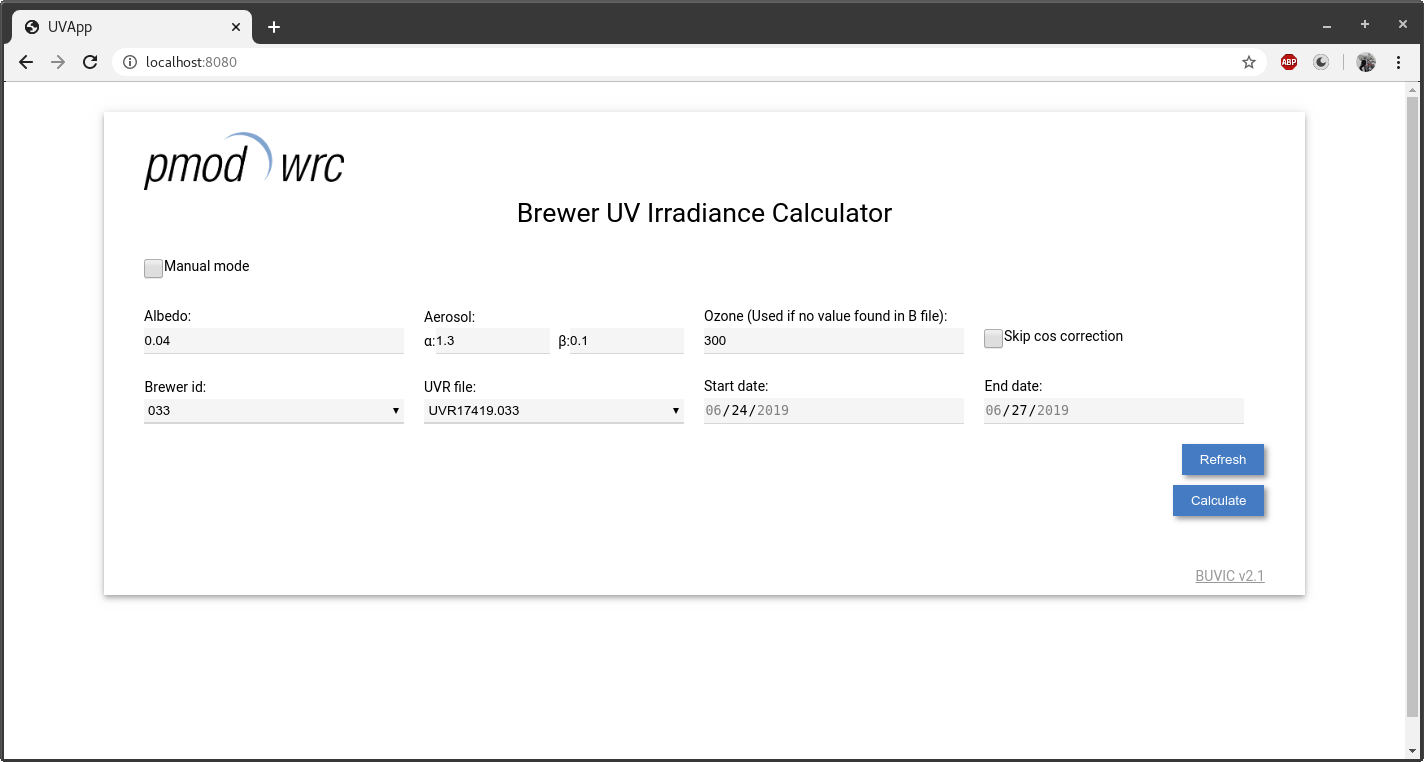
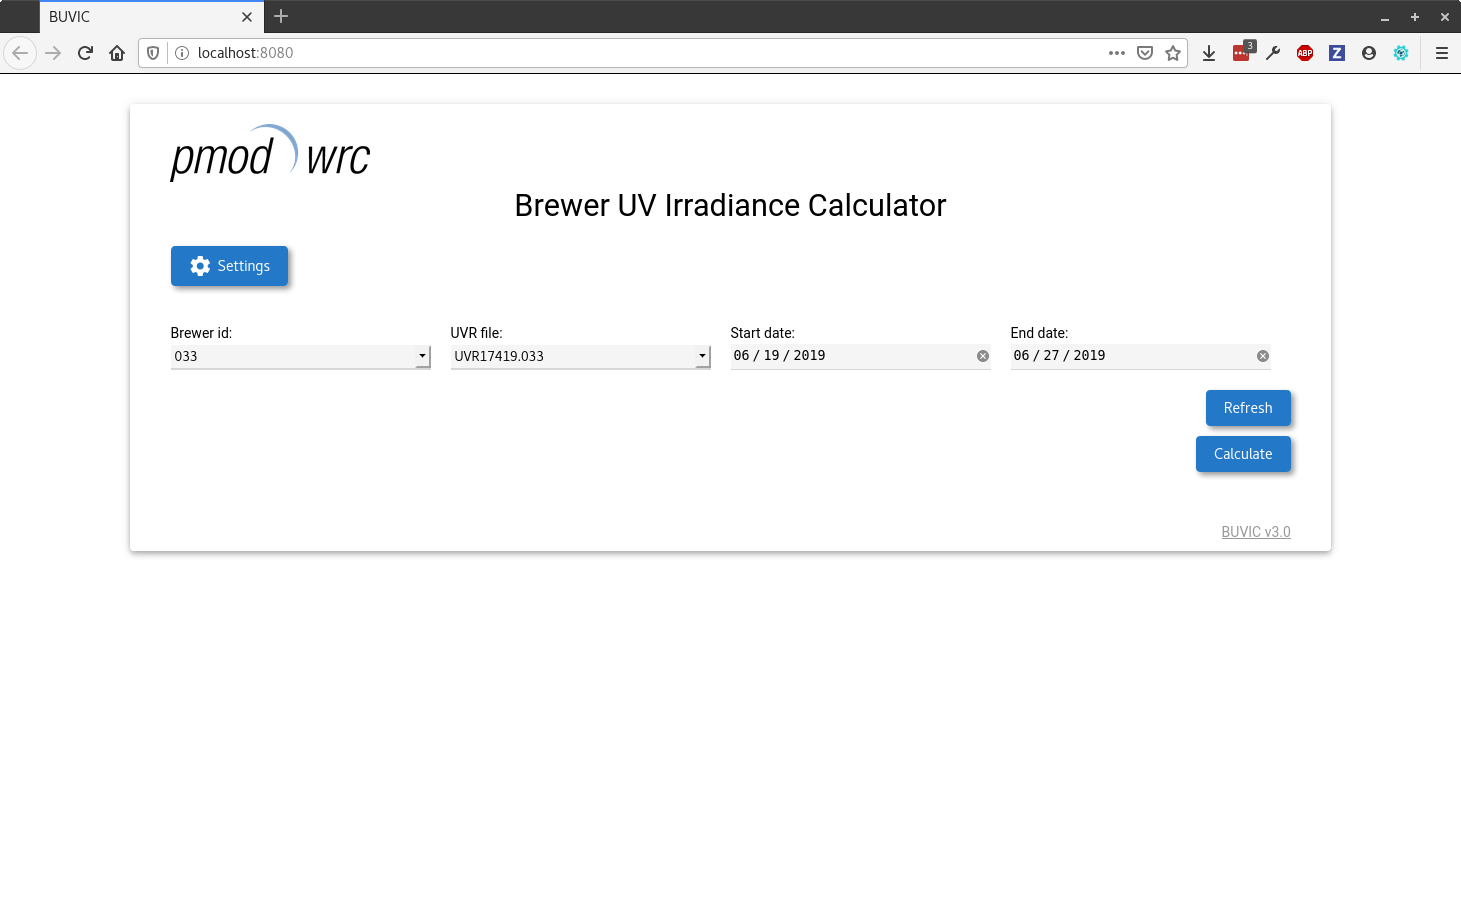
Doc improvements and rename app to BUVIC

diff --git a/buvic/logic/calculation_utils.py b/buvic/logic/calculation_utils.py
@@ -135,9 +135,12 @@ class CalculationUtils:
         if self._init_progress is not None:
             self._init_progress(len(calculation_inputs), f"Collecting data for {len(calculation_inputs)} "
                                                          f"day{'s' if len(calculation_inputs) > 1 else ''}...")
-        # Create the thread pool
+
+        # We initialize the data (reading files / querying eubrewnet) and create the jobs on multiple threads for improved performance
         with ThreadPoolExecutor(max_workers=self._get_thread_count()) as thread_pool:
-            job_list_list = thread_pool.map(self._init_and_create_job, calculation_inputs, timeout=5)
+            job_list_list = thread_pool.map(self._init_and_create_jobs, calculation_inputs, timeout=30)
+
+        # Flatten the list of lists of jobs into a list of jobs
         job_list = list(itertools.chain(*list(job_list_list)))
 
         if len(job_list) == 0:
@@ -145,8 +148,8 @@ class CalculationUtils:
 
         valid_input_count = len(
             [calculation_input for calculation_input in calculation_inputs if len(calculation_input.uv_file_entries) > 0])
-        LOG.info("Starting calculation of %d file sections in %d files", len(job_list),
-                 valid_input_count)
+        LOG.info("Starting calculation of %d file sections in %d files", len(job_list), valid_input_count)
+
         # Init progress bar
         if self._init_progress is not None:
             self._init_progress(len(job_list), f"Calculating irradiance for {len(job_list)} "
@@ -162,7 +165,13 @@ class CalculationUtils:
         LOG.info("Finished calculation batch in %ds", duration)
         return ret
 
-    def _init_and_create_job(self, calculation_input: CalculationInput) -> List[Job]:
+    def _init_and_create_jobs(self, calculation_input: CalculationInput) -> List[Job]:
+        """
+        Initialize the properties of a given calculation input and create calculation jobs for it.
+
+        :param calculation_input: the calculation input to initialize and for which to creat the jobs
+        :return: the created jobs
+        """
         # We collect all warnings and add them to the calculation input
         calculation_input.init_properties()
         calculation_input.add_warnings(get_warnings())
@@ -173,7 +182,10 @@ class CalculationUtils:
             calculation_jobs = self._create_jobs(calculation_input)
         else:
             calculation_jobs = []
+
+        # Report progress to the progress bar
         self._make_progress()
+
         return calculation_jobs
 
     def _on_new_file(self, file_type: str, days: str, year: str, brewer_id: str, settings: Settings) -> None:

diff --git a/buvic/logic/warnings.py b/buvic/logic/warnings.py
@@ -6,12 +6,20 @@ local.warnings = []
 
 
 def warn(message: str) -> None:
+    """
+    Record a thread local warning message.
+    :param message: the message to store
+    """
     if not hasattr(local, "warnings"):
         local.warnings = []
     local.warnings.append(message)
 
 
 def get_warnings() -> List[str]:
+    """
+    Get all recorded warning messages recorded for the current thread
+    :return: the warning messages
+    """
     if hasattr(local, "warnings"):
         return local.warnings
     else:
@@ -19,5 +27,8 @@ def get_warnings() -> List[str]:
 
 
 def clear_warnings() -> None:
+    """
+    Clear all recorded warning messages for the current thread
+    """
     if hasattr(local, "warnings"):
         local.warnings.clear()

diff --git a/buvic/app.py b/buvic/app.py
@@ -18,7 +18,7 @@ from .gui.widgets import Title, Level, Loader, PathMainForm, SimpleMainForm, Res
 LOG = getLogger(__name__)
 
 
-class UVApp(App):
+class BUVIC(App):
     _file_utils: FileUtils
     _main_container: VBox
     _forms: VBox
@@ -33,7 +33,7 @@ class UVApp(App):
 
     def __init__(self, *args):
         self._settings = Settings.load()
-        super(UVApp, self).__init__(*args, static_file_path={'plots': OUTPUT_DIR, 'res': ASSETS_DIR})
+        super(BUVIC, self).__init__(*args, static_file_path={'plots': OUTPUT_DIR, 'res': ASSETS_DIR})
 
         self._executor = ThreadPoolExecutor(1)
         self._duration = 0

diff --git a/docker/run_docker.py b/docker/run_docker.py
@@ -3,7 +3,7 @@ import os
 
 from remi import start
 
-from buvic.app import UVApp
+from buvic.app import BUVIC
 from buvic.const import TMP_FILE_DIR, OUTPUT_DIR
 from buvic.logutils import init_logging
 
@@ -20,4 +20,4 @@ if "PORT" in os.environ:
 init_logging(logging.DEBUG)
 
 # starts the web server
-start(UVApp, address='0.0.0.0', port=port, start_browser=False, multiple_instance=True)
+start(BUVIC, address='0.0.0.0', port=port, start_browser=False, multiple_instance=True)

diff --git a/run.py b/run.py
@@ -3,7 +3,7 @@ import os
 
 from remi import start
 
-from buvic.app import UVApp
+from buvic.app import BUVIC
 from buvic.const import TMP_FILE_DIR, OUTPUT_DIR
 from buvic.logutils import init_logging
 
@@ -16,4 +16,4 @@ if not os.path.exists(OUTPUT_DIR):
 init_logging(logging.INFO)
 
 # starts the web server
-start(UVApp, multiple_instance=True)
+start(BUVIC, multiple_instance=True)

diff --git a/README.md b/README.md
@@ -202,6 +202,8 @@ It offers the possibility to choose dates and a brewer id to automatically find 
 
 ![GUI](assets/gui.png)
 
+![GUI](assets/gui2.png)
+
 **Instructions:**
 
 Run:
